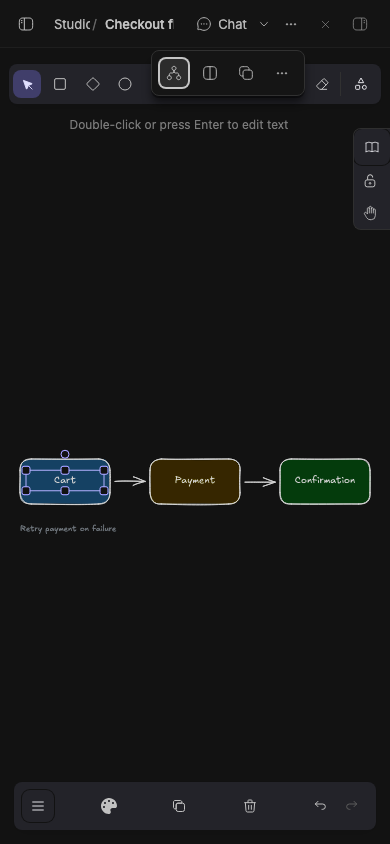
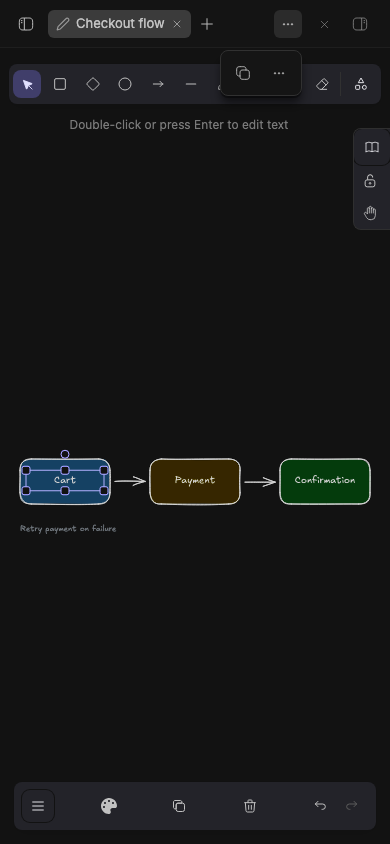
Recapture the compact artifact and drawing headers as Studio tabs

diff --git a/packages/bb-studio/README.md b/packages/bb-studio/README.md
@@ -100,7 +100,10 @@ opens it as a tab.
 
 ![The compact artifact header](assets/artifacts-compact-header.png)
 
-The same viewer at 390 pixels wide, with **Item actions** open.
+The same viewer at 390 pixels wide as a Studio tab, with **Item actions**
+open. The tab row shows only the viewer's own tools; Chat appears where the
+artifact opens outside the workspace, such as beside a thread. Recapture
+with `BB_CAPTURE_COMPACT_HEADERS=1 BB_CAPTURE_ONLY=artifacts-compact-header`.
 
 - **In the library.** Artifacts list next to pages, recordings and drawings,
   with type, size and version columns, image thumbnails, projects, archive,
@@ -158,8 +161,9 @@ Studio tab.
 
 ![The compact drawing header](assets/drawings-compact-header.png)
 
-The same editor at 390 pixels wide, with **Item actions** open, captured
-before the merge from the add-on's own page.
+The same editor at 390 pixels wide as a Studio tab, with **Item actions**
+open. Recapture with
+`BB_CAPTURE_COMPACT_HEADERS=1 BB_CAPTURE_ONLY=draw-compact-header`.
 
 - **In the library.** Drawings list next to pages, recordings and artifacts:
   thumbnails, projects, search over the words on a drawing, archive, move,
